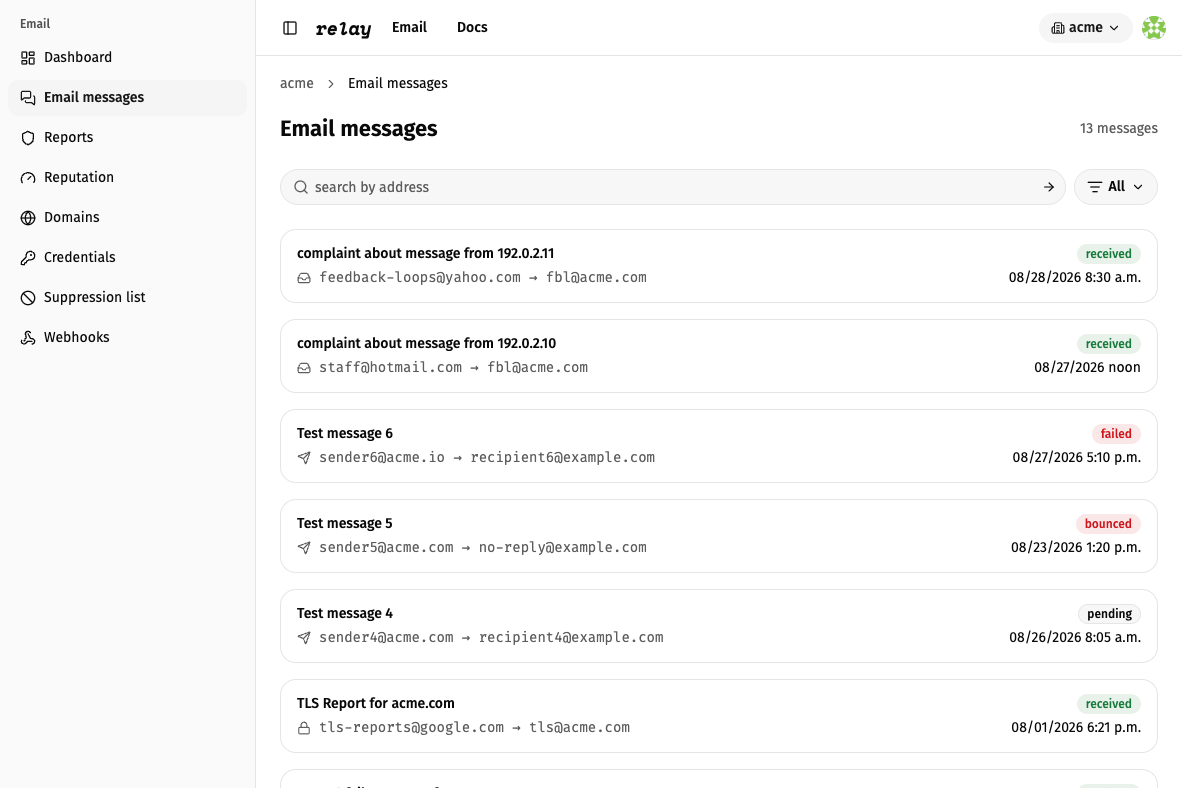
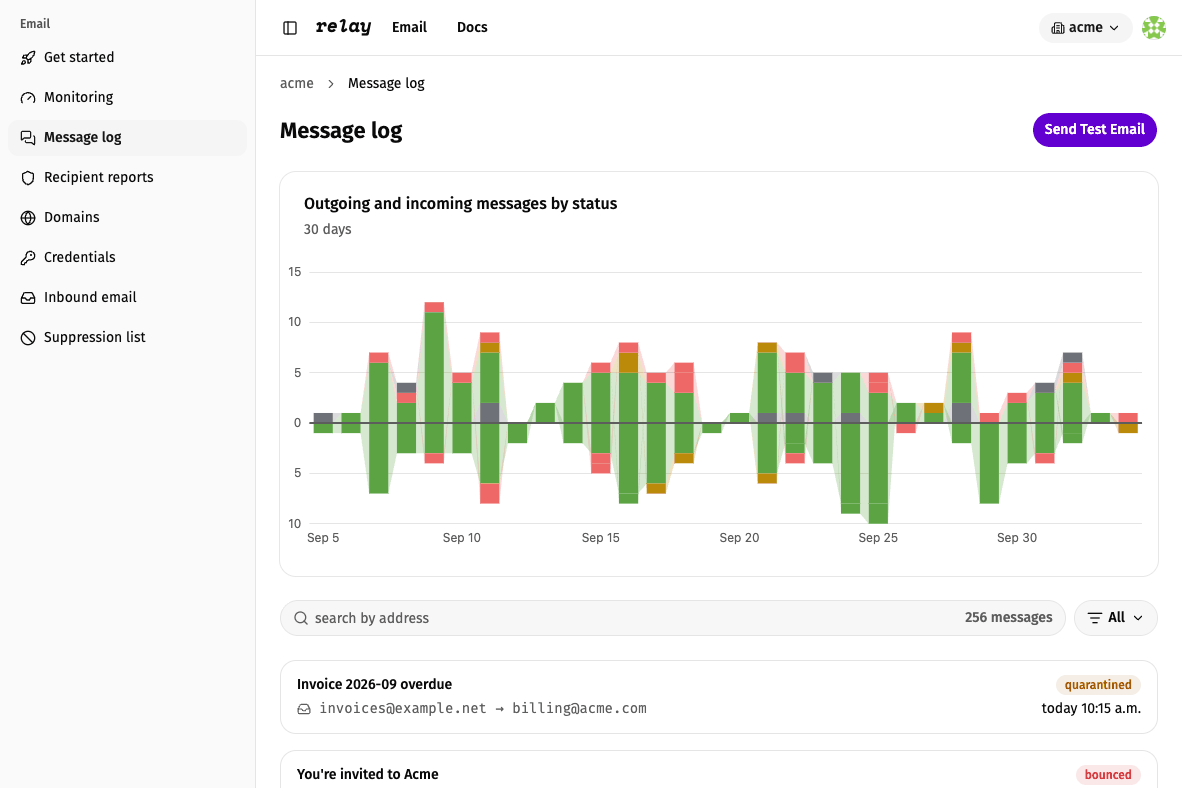
Refresh the homepage screenshots, test data, and privacy illustration (#416)

diff --git a/root/templates/start.html b/root/templates/start.html
@@ -191,7 +191,7 @@
               >
               <img
                 src="{% static 'img/email-overview-light.png' %}"
-                alt="relay email message list with filters and delivery statuses"
+                alt="relay message log with a 30-day volume chart, filters, and delivery statuses"
                 width="1182"
                 height="788"
                 loading="lazy"
@@ -219,7 +219,7 @@
               >
               <img
                 src="{% static 'img/email-detail-light.png' %}"
-                alt="relay message detail with transmission log, headers, and email body"
+                alt="relay message detail with delivery status, scan results, and the transmission timeline"
                 width="1182"
                 height="788"
                 loading="lazy"
@@ -229,7 +229,7 @@
           </div>
           <figcaption class="text-sm text-muted-foreground text-center m-0">
             {% blocktranslate trimmed %}
-              One message, end to end: transmission codes, headers, and body.
+              One message, end to end: status, scan results, and every transmission.
             {% endblocktranslate %}
           </figcaption>
         </figure>
@@ -359,7 +359,7 @@
           </p>
         </div>
         <figure class="m-0 w-full max-w-72 shrink-0">
-          {% include "partials/illustration.html" with name="secure-server" %}
+          {% include "partials/illustration.html" with name="gdpr" %}
         </figure>
       </div>
     </section>

diff --git a/AGENTS.md b/AGENTS.md
@@ -145,11 +145,19 @@ Disable the browser cache before capturing screenshots
 revalidations with `304`, so the browser would otherwise reuse stale
 HTML that still contains the debug toolbar.
 
+Refresh the homepage screenshots (`root/static/img/email-*-{light,dark}.png`)
+from the message log and a message detail at a 1182x788 viewport with
+device scale factor 1. The fixture ages out: its message timestamps sit
+far in the past, so shift them forward before capturing or the message
+log's 30-day chart renders empty.
+
 ## Test data
 
-Bundle: one user (`test`, password `test`), one org (`acme`), one
-domain (`acme.com`), one SMTP credential, three outgoing messages,
-three transmissions, two SigningKeys. Load with
+Bundle: one user (`test`, password `test`), one org (`acme`), five domains,
+one SMTP credential, two SigningKeys, and a month of message traffic: 256
+messages with 375 transmissions and 17 spam checks, spread over
+2026-09-04 to 2026-10-04 so the dashboard charts and the message log have
+data instead of a single row. Load with
 `manage.py loaddata fixtures/initial_data.yaml`. Refresh with:
 
 1. Wipe the database and re-apply migrations:
